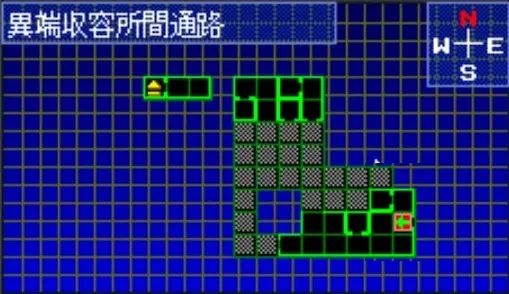
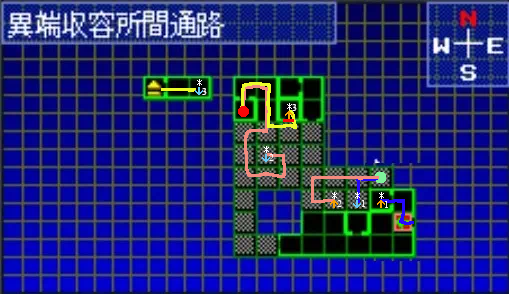
smt20xx updates 3

Changed region(s): [[0.4715, 0.2755, 0.5894, 0.6122], [0.5894, 0.5816, 0.8251, 0.7653], [0.3242, 0.2755, 0.4126, 0.3367]]

diff --git a/src/data/blog/smt20xx.md b/src/data/blog/smt20xx.md
@@ -17,7 +17,7 @@ description: Shin Megami Tensei 20XX - Chaos Ending notes.
 
 Stats:
 - Hero - SPD til 10, STR til 12, SPD til 15, STR til 20, VIT?
-- Ain - SPD til 9, MAG til 14, SPD til 13, MAG/VIT?
+- Ain - SPD til 9, MAG til 14, SPD til 13, VIT til 10, MAG
 
 In the maps, the white spot represents where you fell from a higher floor.
 
@@ -185,7 +185,7 @@ Grab SPD Incense.
 
 ![South Section B3F](@/assets/images/smt20xxmaps/southB3F-4.png)
 
-Transfer to East Section. Recruit a Kinnari, Ihika and Jack Lantern, while grinding some money.
+Transfer to East Section. Recruit a Kinnari, Ihika and Jack Lantern/Jack Frost, while grinding some money.
 
 Transfer to underground, fuse:
 - Kinnari x Ihika = Hag
@@ -217,6 +217,8 @@ Transfer to the Underground and head to West Section.
 
 ## West Section
 
+You're gonna slowly grind to level 30 now. Defeat Gurr with gun and trafuri from everything else until you get the later items, unless you're low on money and want some right away.
+
 ### B2F
 
 ![West Section B2F](@/assets/images/smt20xxmaps/westB2F.png)
@@ -231,6 +233,10 @@ Then grab the 1024 Macca (3) and head back to the pit to fall.
 
 Grab the Reiki no Sword (1).
 
+Fuse:
+- Angel x Hag = Houou
+- Houou x Spirit Sword = 小狐丸
+
 Grab Chakra Pot (4).
 
 Grab 4800 Macca (2).
@@ -242,26 +248,29 @@ Grab 4800 Macca (2).
 Grab disc. 
 
 Stop by the shop and sell some extra items if needed and buy:
-- 20x Hikoubari
+- 30x Hikoubari
+- 2 Amulets
 
 Grab Sword and (Optional) Jewel. 
 
-Go upstairs, fuse:
-- Angel x Hag = Houou
-- Houou x Spirit Sword = 小狐丸
-
 Transfer to Downtown.
 
-Go to Colosseum, pick up items and fight Adonis (AUTO).
+Go to Colosseum, fight Adonis (AUTO).
 
 Say 戦うならオレが. Fight Ramedo:
 - Sword, Zionga, Rakunda
 
 Go to Virtuals 4, kill Aeros and Gurr with guns, trafuri everything else.
-Fight Black Widow
+Fight Black Widow:
 - Sword, Zionga, Rakunda
 
 ## North Section
+
+Defeat these enemies with Gun + Hikoubari:
+- Forneus, Jin, Yakshni, Gryphon
+Defeat with Gun: Zealator
+
+Make sure Celeano does NOT die. You can't resummon it.
 
 ### B3F
 
@@ -296,17 +305,6 @@ Grab Disc V.
 
 Go up, grab Soma (2).
 
-Optional?
-Fight Troll:
-- Sword, Zionga, Rakunda
-
-Talk to the guy and pay to get the ID card. Head back up to B6F and fall back down. Go through the Lab.
-
-Fight the Zealator:
-- AUTO
-
-Say YES to breaking the key to get the piece of paper. Leave and head back up to B6F.
-
 ### B6F
 
 ![North Section B6F](@/assets/images/smt20xxmaps/northB6F.png)
@@ -315,23 +313,20 @@ Bottom Map.
 ## B5F
 ![North Section B5F](@/assets/images/smt20xxmaps/northB5F-2.png)
 
-Head to the passage to South B5F and through there climb back to B3F to go to the terminal and transfer to Underground.
-
-Go to Gaia, buy:
-- 10x Mudoon item
-- 2 Amulets
-
-Transfer to Downtown.
+Head to the passage to South B5F and through there climb back to B3F to go to the terminal and transfer to Downtown.
 
 Go to the Shop and buy:
 - 5~10 Smoke Bombs
 
-Virtuals 5. Be careful with some encounters, go for Gun + Trafuri by default. 6x Jin use a smoke bomb and be careful to not let Celeano die because if you're Chaos you won't be able to resummon it.
+Go to colosseum. Pick up items (2nd use, 5th Slicer, Desert Eagle) and fight Adonis:
+- AUTO
 
-Fight :
+Virtuals 5. Be careful with some encounters, go for Gun + Trafuri by default. 6x Jin use a smoke bomb and be careful to not let Celeano die because if you're Chaos you won't be able to resummon it. If he dies, just fight the encounters and try to run away when possible. Dangerous fights use a smoke bomb.
+
+Fight Tarrasque:
 - Sword, Rakunda, Zionga
 
-Go to Colosseum. Pick up items (1st and 3rd) and fight Okamoto:
+Go to Colosseum. Pick up items (1st and 4th) and fight Okamoto:
 - AUTO
 
 At the Gym talk to everyone and then go back to the room next to the owner to talk to Ain. Then re-enter that room for the Temple Knight scene.
@@ -360,7 +355,10 @@ Choose any option at Madame. Then go back to the Gym to the Trainer's room and w
 
 ![South Section B1F](@/assets/images/smt20xxmaps/southB1F-2.png)
 
-Transfer to the Underground and go to South Section B1F to head to the Prison.
+Transfer to the Underground, stop by the Gaian:
+- 2x Necroma items
+
+Go to South Section B1F to head to the Prison.
 
 ## Prison
 
@@ -386,6 +384,8 @@ Press the red switch then press the blue switch then go upstairs.
 
 ![Prison 3F](@/assets/images/smt20xxmaps/prison3F.png)
 
+Grab Soma (3).
+
 Go to the center to fight Ramedo:
 - Phase 1: Sword, Rakunda
 - Phase 2: AUTO, heal with Soma or Jewels whenever HP is low
@@ -399,10 +399,18 @@ Back in town, fight the Zelator:
 
 Go to Moss' place, watch the event. Go to Madame's place.
 
+Walk to the terminal in the underground.
+
 ![West Section B3F](@/assets/images/smt20xxmaps/westB3F.png)
 ![West Section B4F](@/assets/images/smt20xxmaps/westB4F.png)
 
-Fuse sword and grind to 30 to recruit Selket and Lamia for the last boss fight? Also Panzer Armor for Ain? Buy Hamayas and Needles for the grind?
+Fuse Sword:
+- Ihika x Orthrus = Nue
+- Nue x Sword = Better Sword
+
+Equip the sword.
+Grind/sell 30k to get Heroine the Panzer Suit and Panzer Legs then head to the center.
+
 
 ### Center Passageway
 
@@ -422,7 +430,10 @@ Use Amulet.
 
 ### Center B12F
 Use Amulet.
+
 ![Center B12F](@/assets/images/smt20xxmaps/centerB12F.png)
+
+Grab Hangonkou and (Optional) Soma.
 
 Fight Metatron:
 
